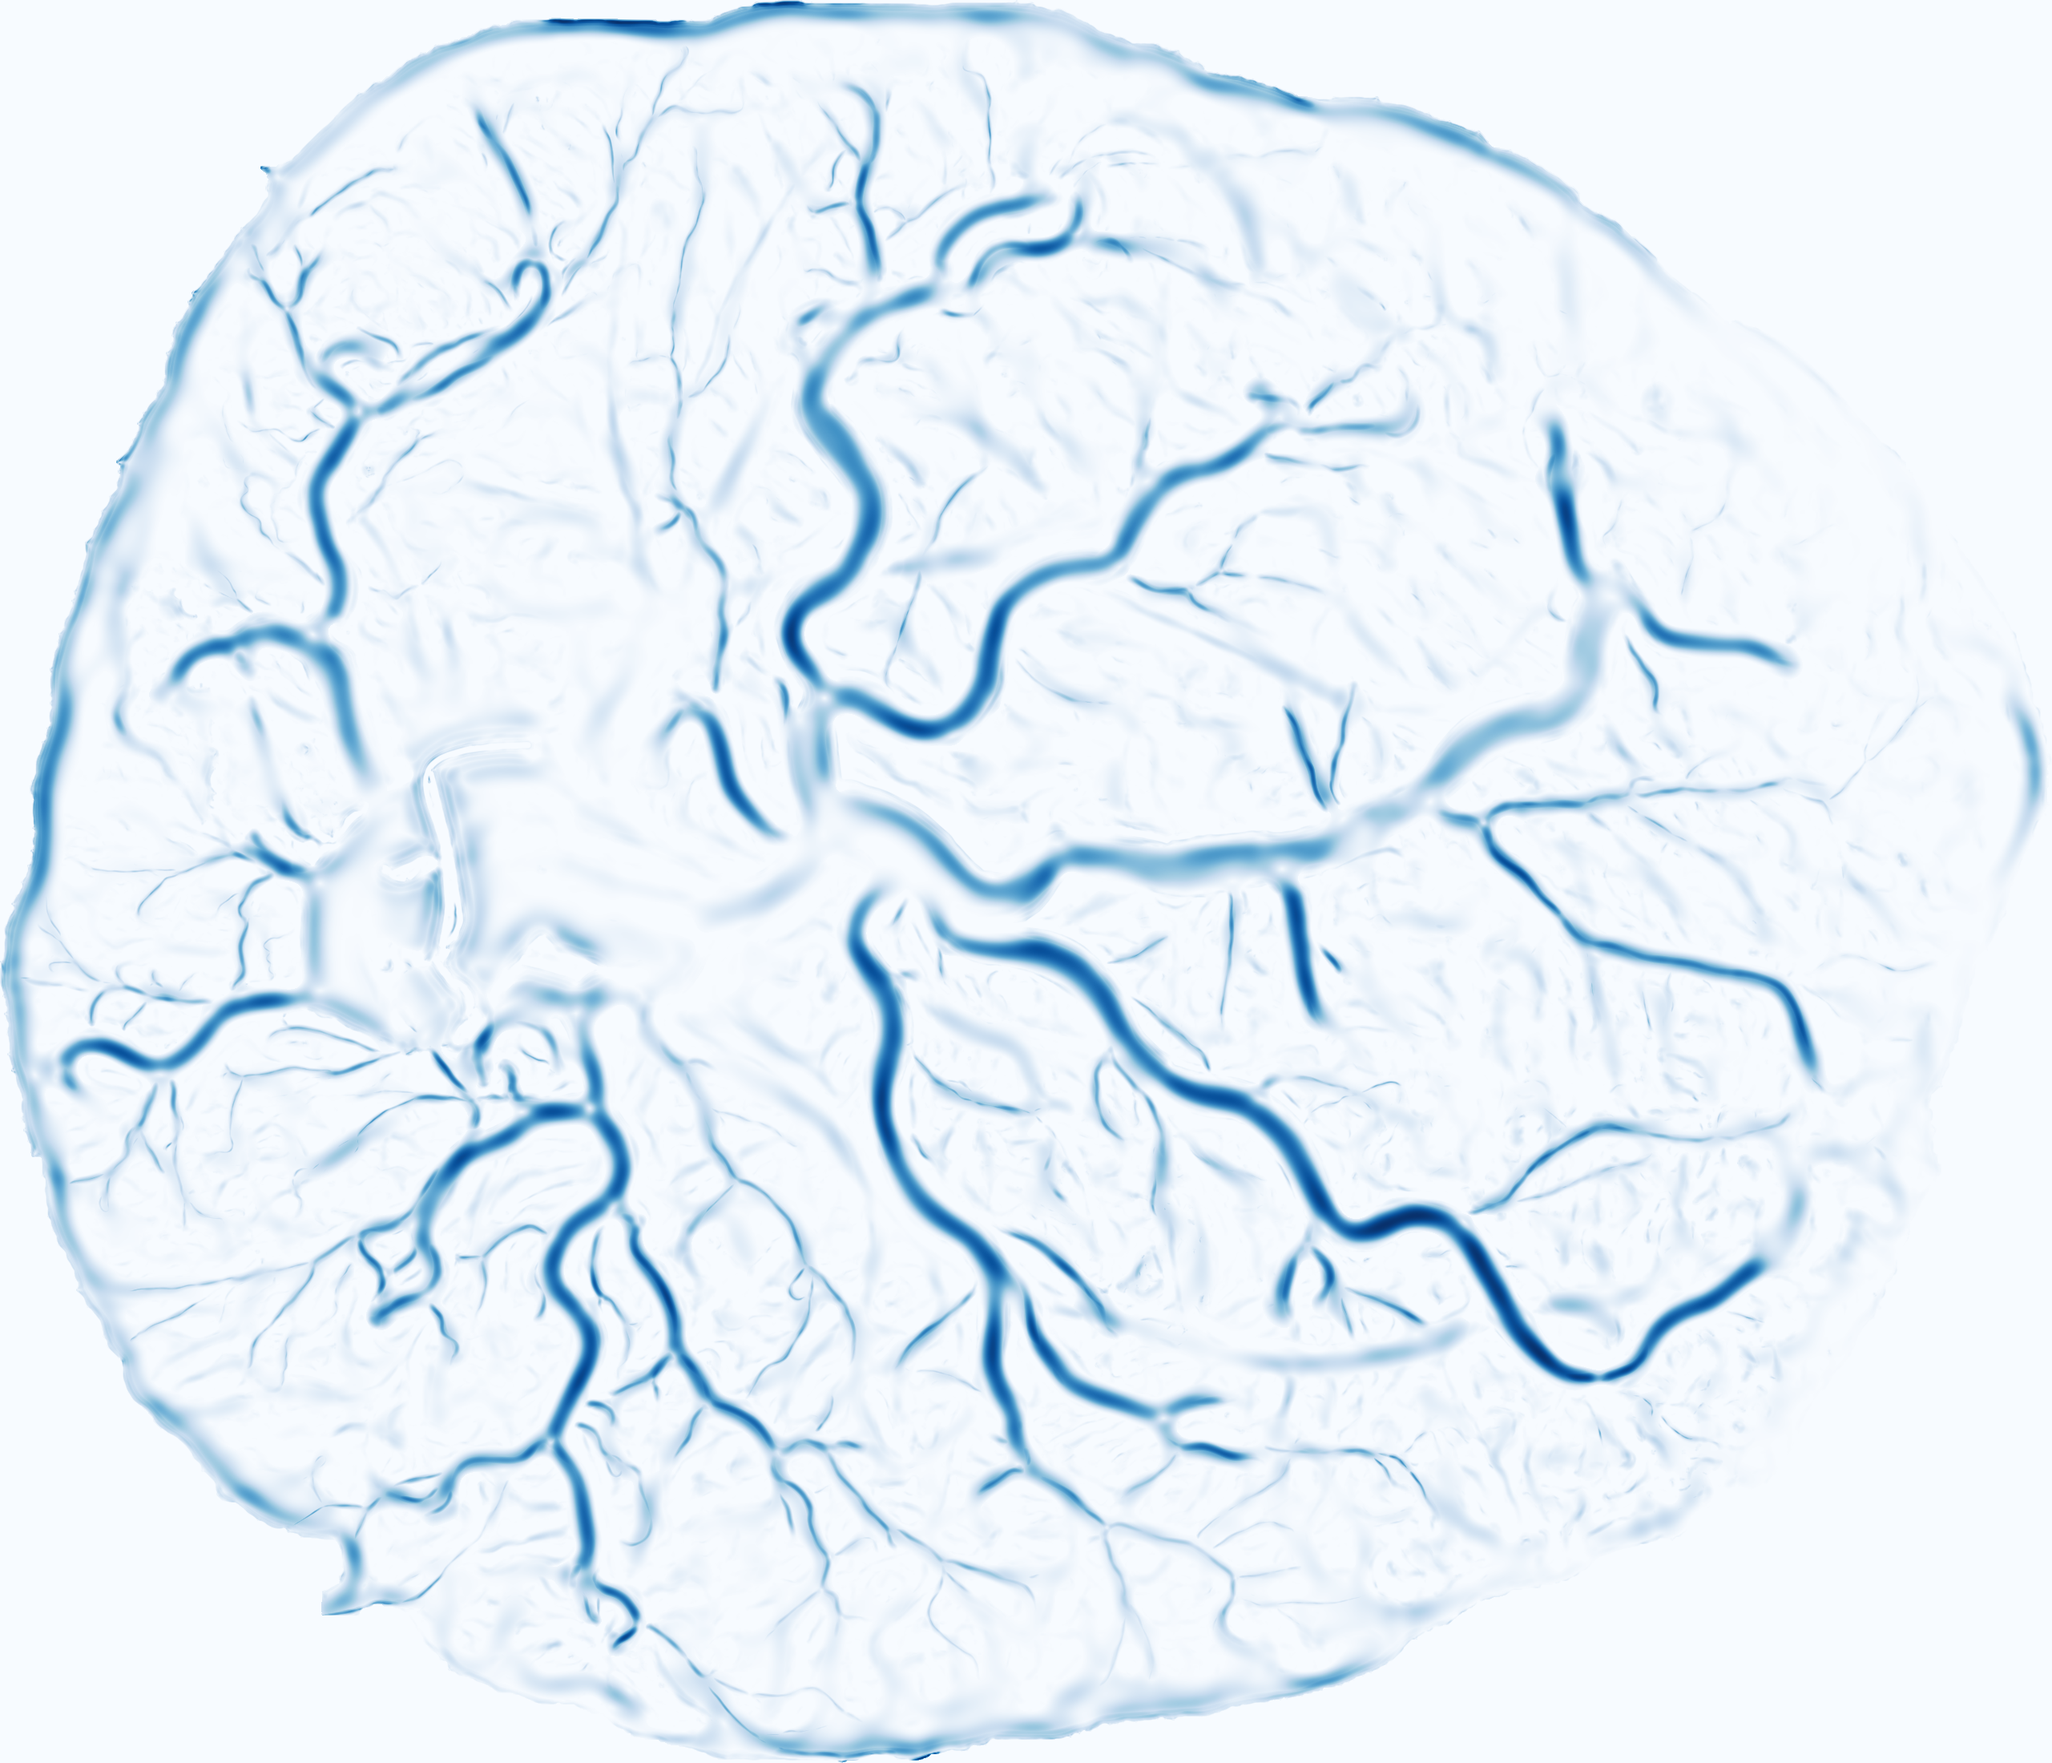
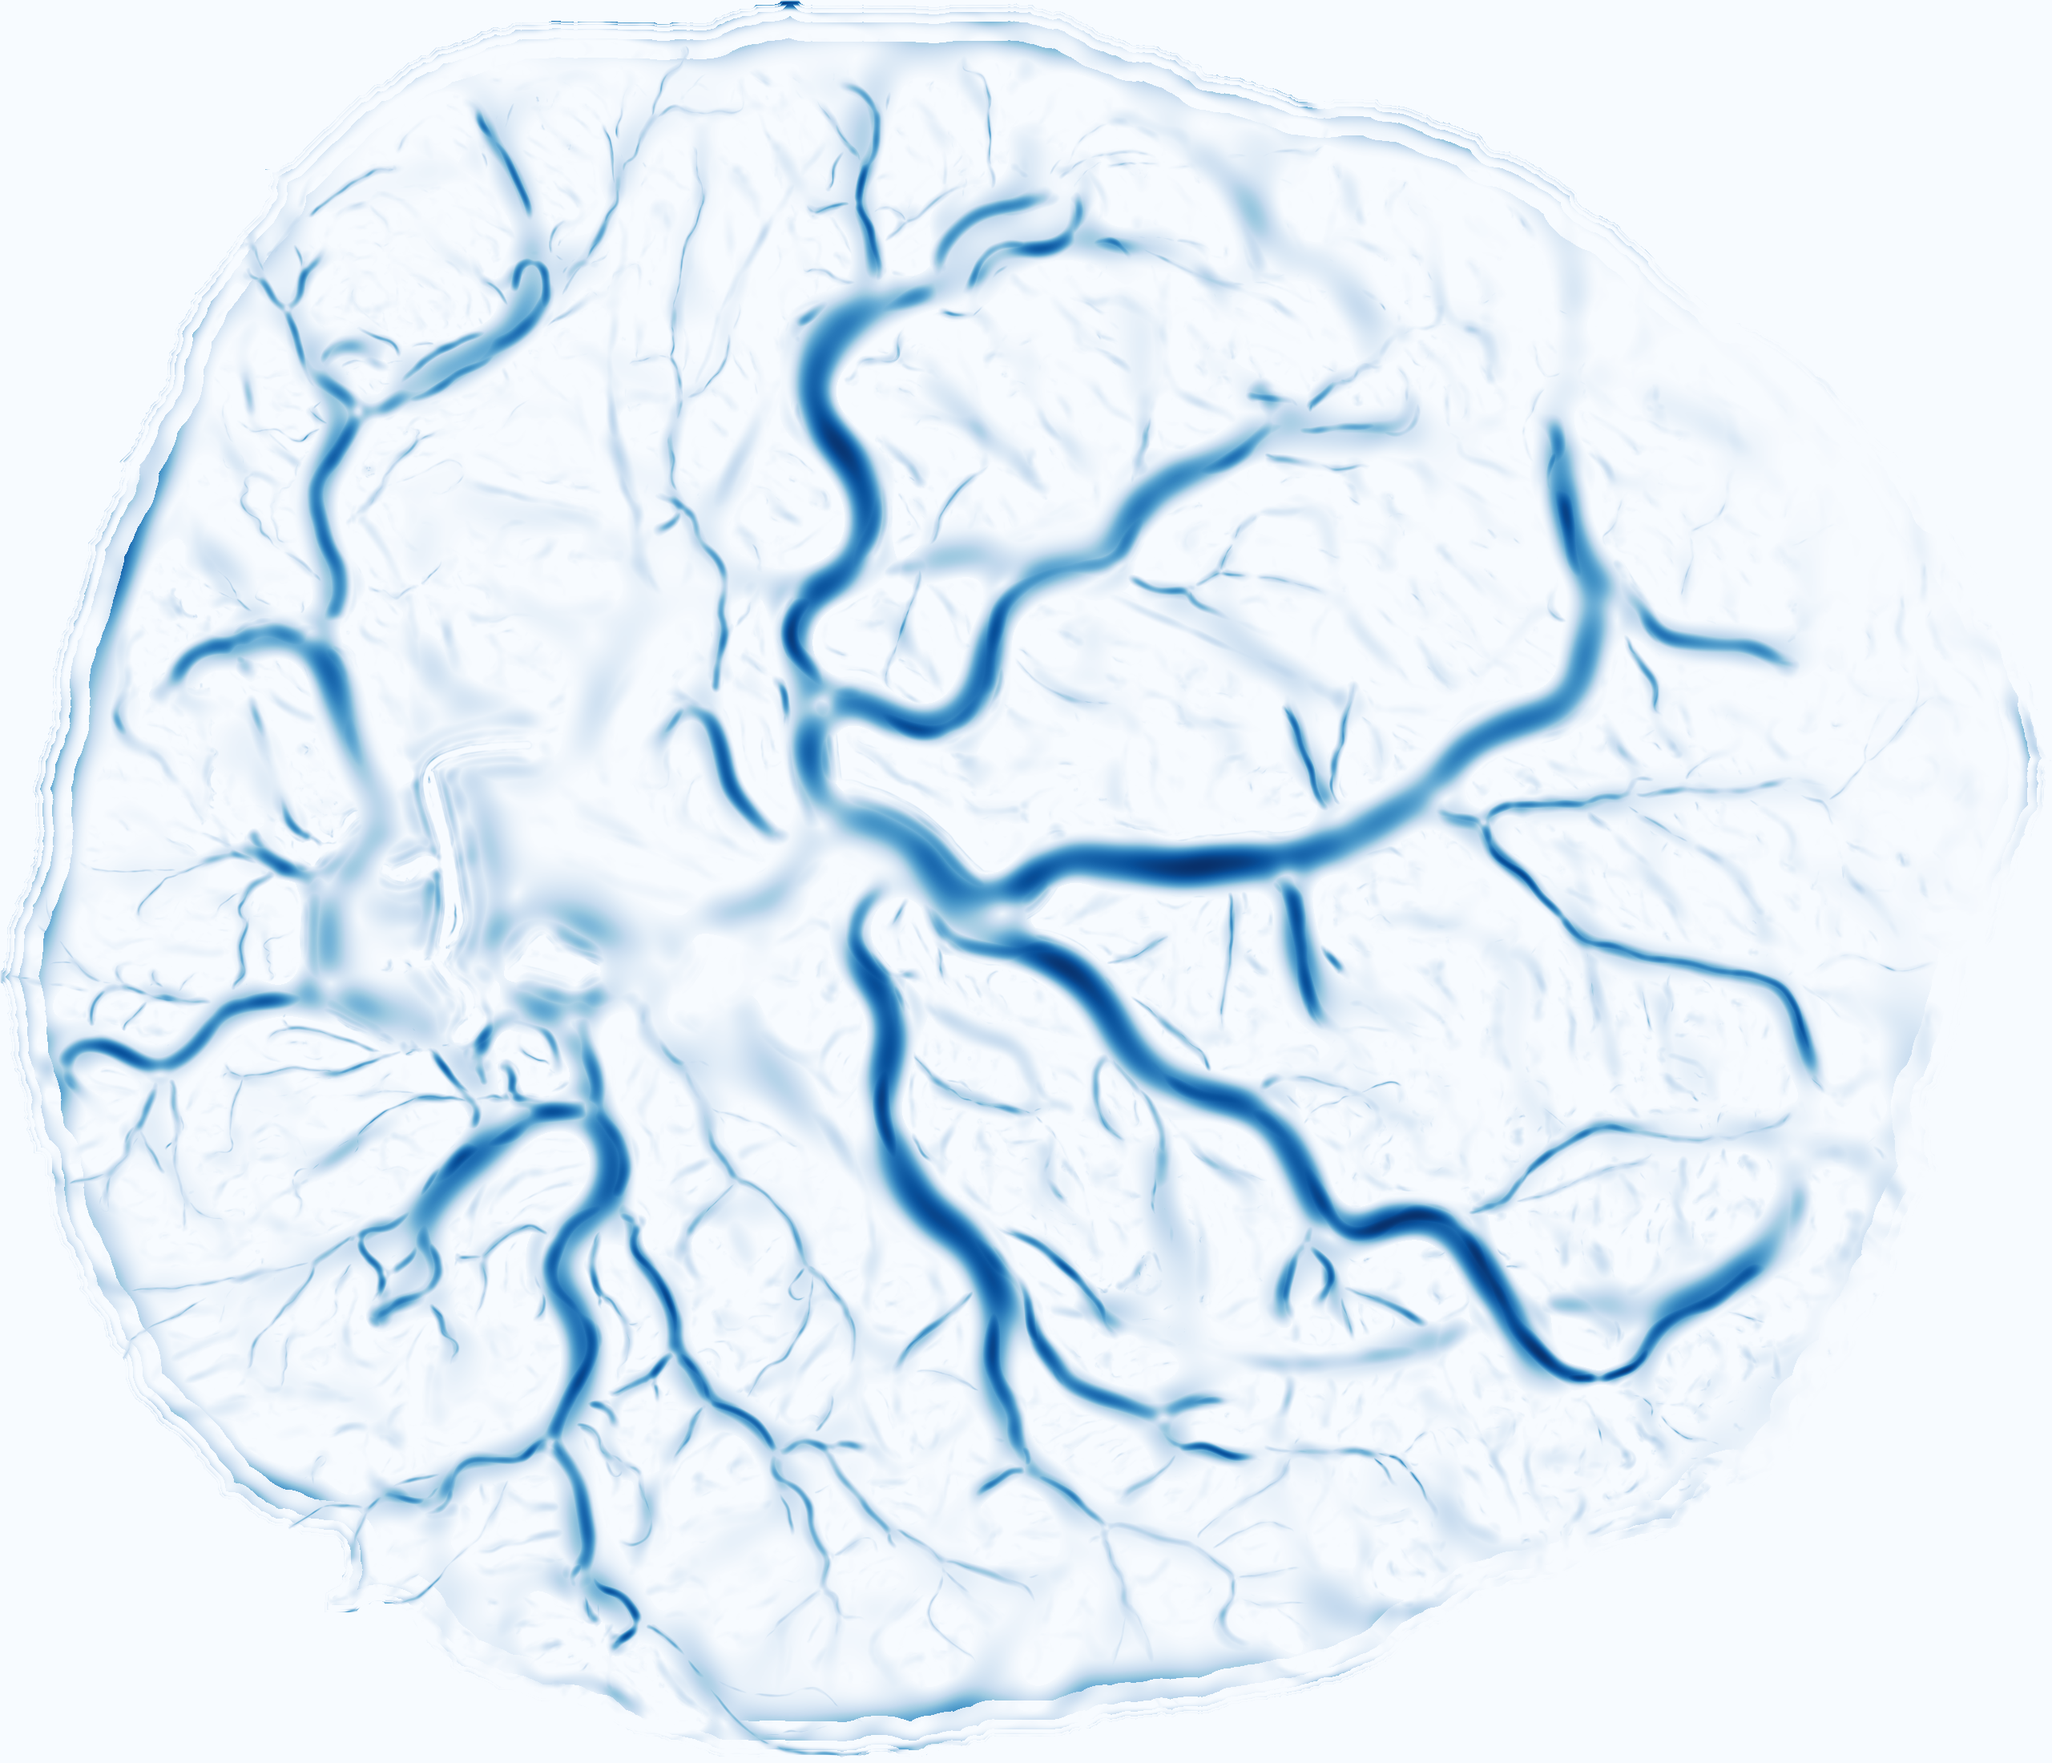
run test scripts on three placentas, 5 levels

diff --git a/pcsvn.py b/pcsvn.py
@@ -188,10 +188,10 @@ alpha = 0.2
 ###Set base image#############################
 
 
-#filename = 'barium1.png'
+filename = 'barium2.png'
 #mask = 'barium1.mask.png'
 
-filename = 'NYMH_ID130016i.png'
+#filename = 'NYMH_ID130016i.png'
 
 #raw_img = get_named_placenta('TA-BN2341348.png', mask='TA-BN2341348_mask.png')
 raw_img = get_named_placenta(filename, maskfile=None)
